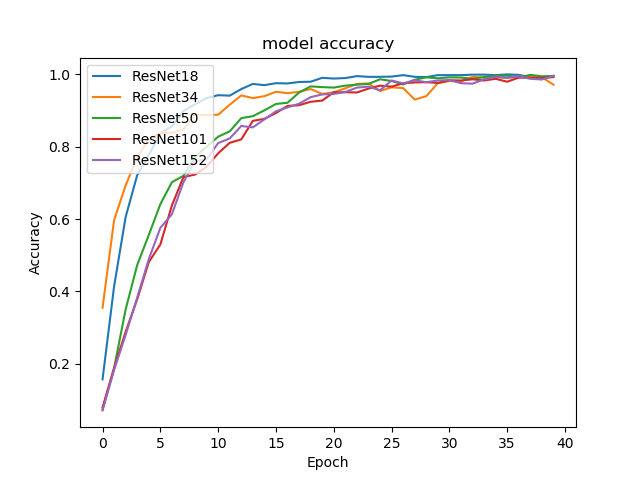
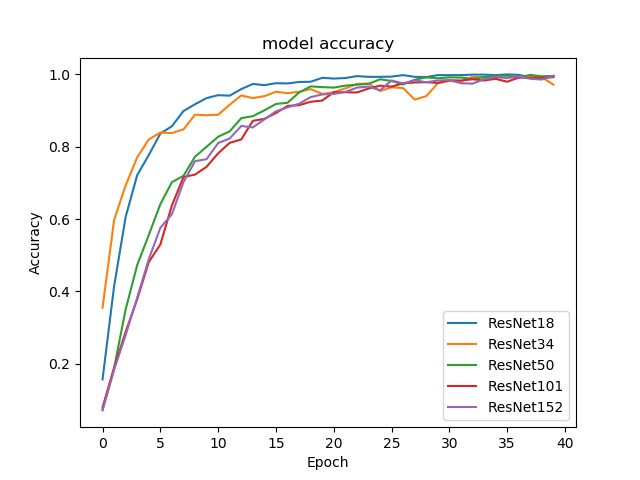
Updated epoch plot.

Changed region(s): [[0.125, 0.125, 0.3438, 0.375], [0.6875, 0.6562, 0.875, 0.875]]

diff --git a/plotting.py b/plotting.py
@@ -27,7 +27,7 @@ for name in model_names:
     plt.title('model accuracy')
     plt.ylabel('Accuracy')
     plt.xlabel('Epoch')
-    plt.legend(model_names, loc='upper left')
+    plt.legend(model_names, loc='lower right')
     plt.savefig('plots\\acc_epoch.png'.format(name))
 
 plt.clf()
